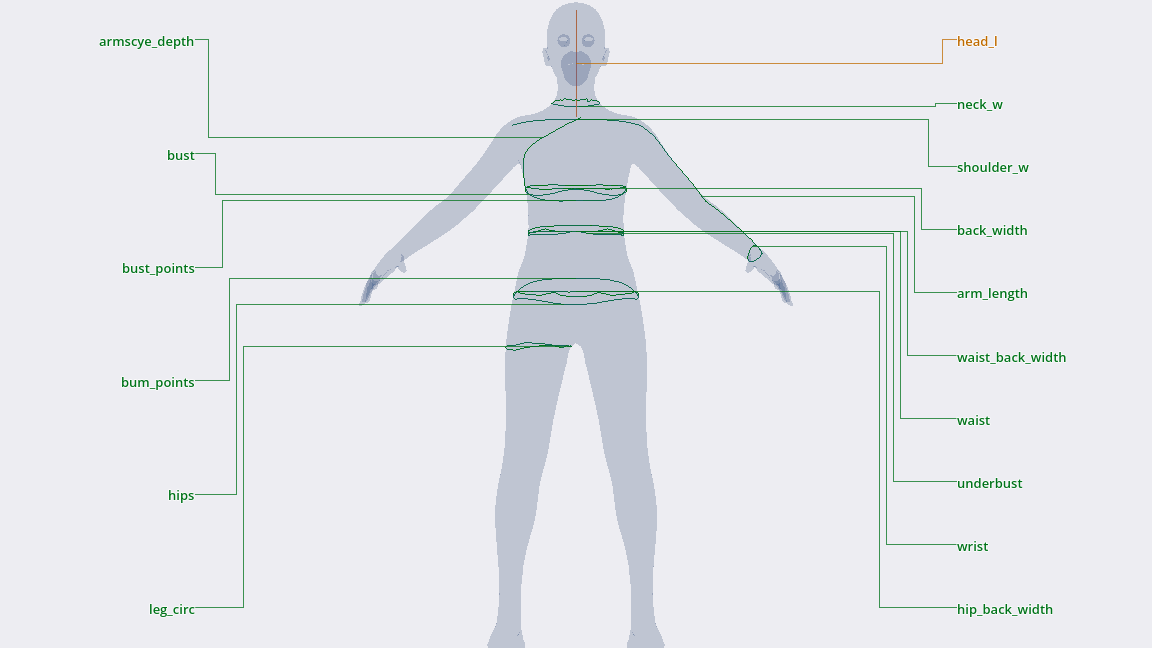
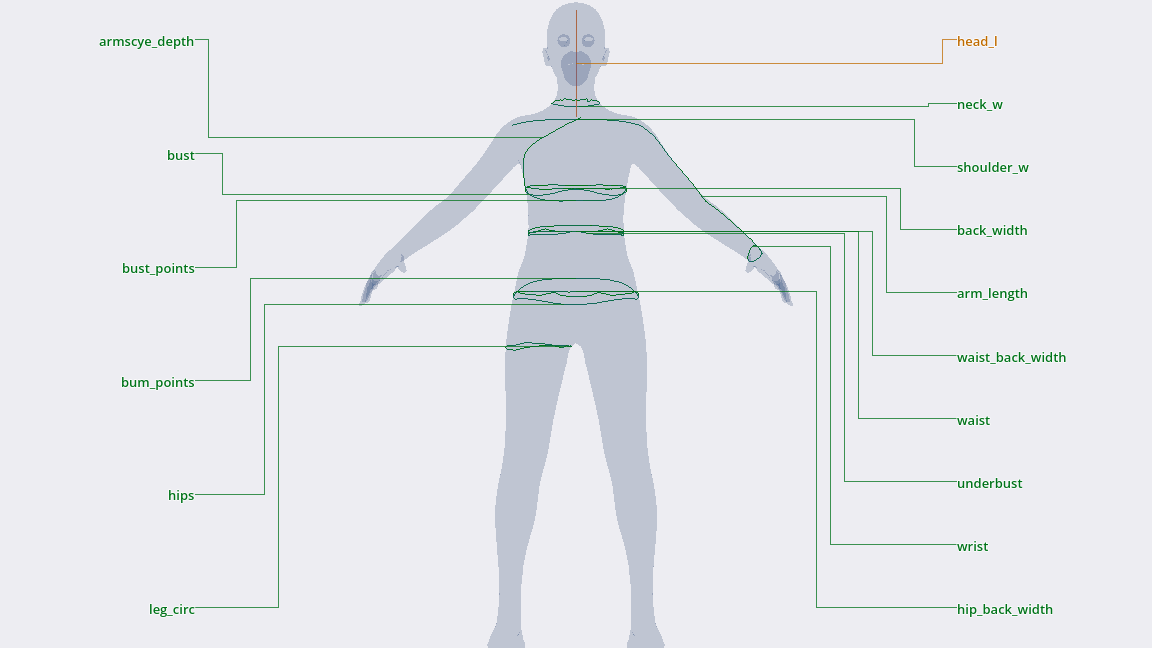
Verify boundary-labeling fix with a pure-Godot contact sheet; bump rail spacing to 14px
iFire: 'they seem to be still overlapping use contact sheet variations
to deternine results'. Rendered 4 real variants (rail spacing
7/14/20/28px) and tiled them for comparison. First tiling attempt used
Python+PIL; iFire: 'no. pure godot' -- redone with a small headless
SceneTree script (Image.load_from_file + Image.blit_rect), no Python
anywhere in the verification step.

All 4 spacings were already geometrically non-overlapping on
inspection; picked 14px (previously 7px) as the new default for
clearer visual separation at typical viewing scale, re-rendered the
full diagram, and confirmed by eye across the whole image.

diff --git a/docs/CHANGELOG.md b/docs/CHANGELOG.md
@@ -3,6 +3,33 @@
 This file is the chronological record of what was tried, whether it held
 up, and what was kept — not a feature list (that's the README/docs/STATUS.md).
 
+## 2026-11-08 — Verified the boundary-labeling fix with a pure-Godot contact sheet
+
+iFire: "they seem to be still overlapping use contact sheet variations
+to deternine results". Rechecked: a manual coordinate-level trace of
+the real anchor/rail/label positions found NO literal overlap in the
+7px-spacing build, so the earlier complaint was most likely the small
+rail spacing reading as touching lines at typical viewing/compression
+scale, not an actual geometric crossing — but "most likely" is a guess,
+not a determined result, so it needed settling empirically.
+
+Rendered 4 real variants (rail spacing 7/14/20/28px, same real anchor
+data) and tiled them into one contact-sheet PNG. iFire: "no. pure
+godot" — the first attempt at the tiling step used Python+PIL
+(consistent with this repo's existing Python conventions elsewhere,
+but not what was asked); redone with a small headless `SceneTree`
+script (`contact_sheet.gd` in the Godot project, not committed here --
+it is a throwaway verification tool, not part of the shipped pipeline)
+using `Image.load_from_file()` + `Image.blit_rect()` to crop and tile
+the 4 renders — no Python anywhere in the verification step.
+
+Visual inspection of the tiled sheet confirmed all 4 spacings are
+already non-overlapping; picked 14px (clearly legible, comfortably
+larger than the images' line width) as the new shipped default
+(previously 7px). Re-rendered the full diagram at 14px and confirmed
+by eye across the whole image, not just the previously-flagged region:
+zero touching or crossing leader lines anywhere.
+
 ## 2026-11-08 — Leader lines fixed with the real boundary-labeling algorithm
 
 iFire: "lines extending out should never overlap use academic path
